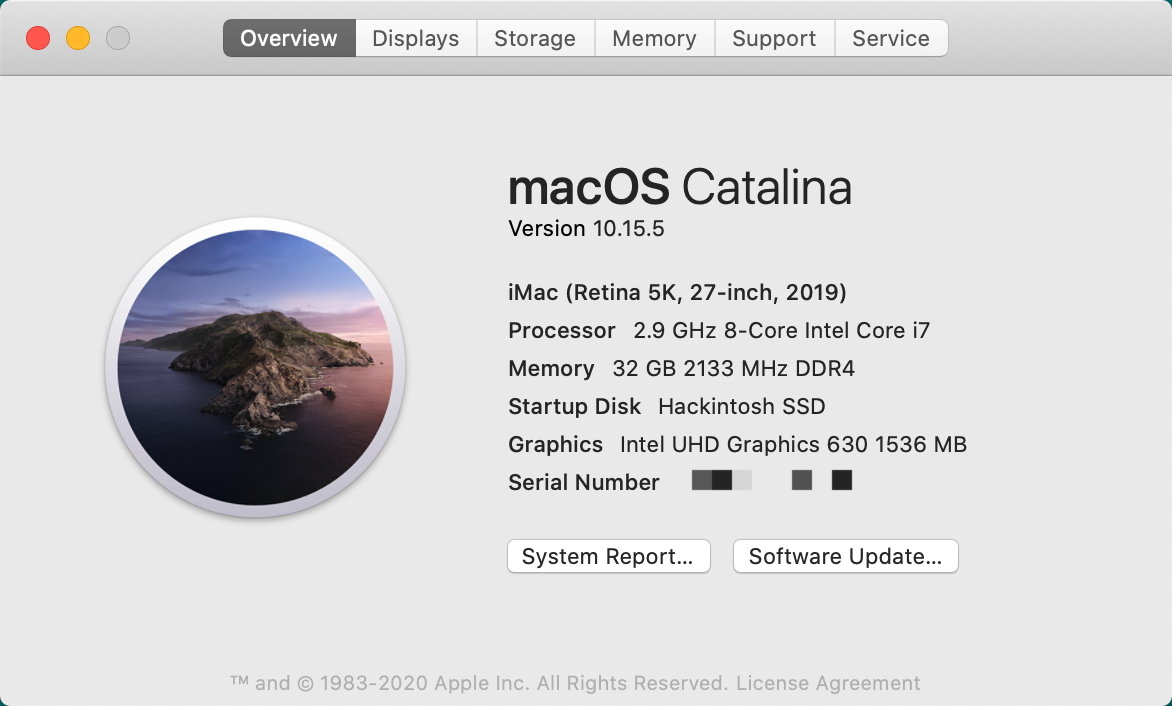
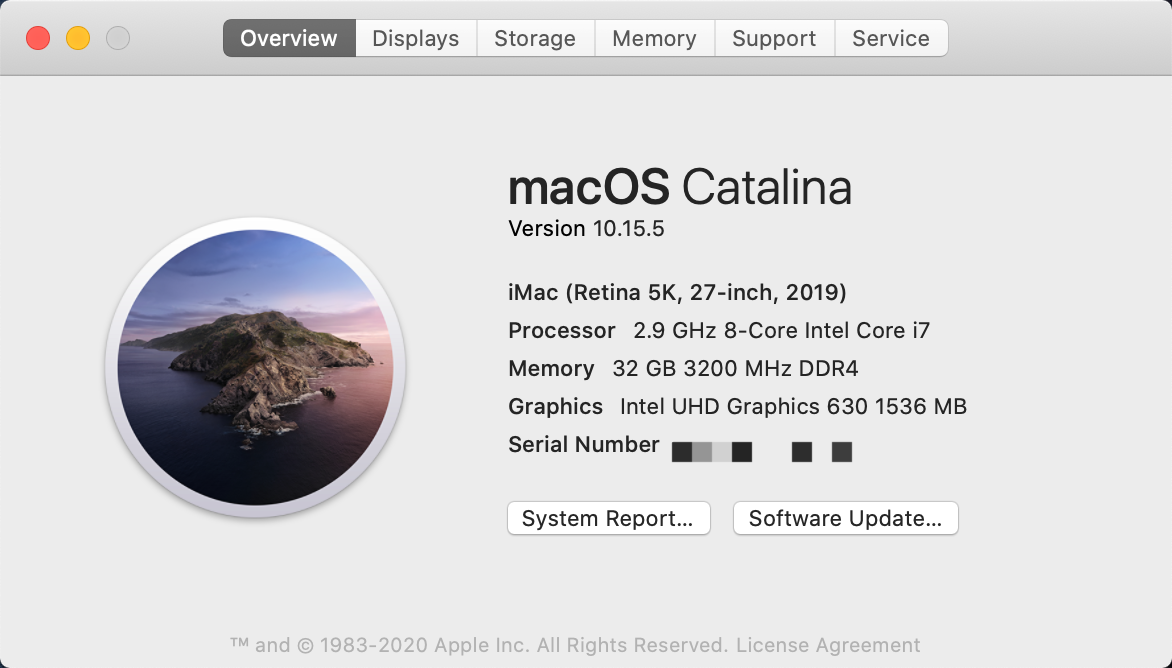
Update README.md

diff --git a/README.md b/README.md
@@ -14,6 +14,7 @@ Highly recommended reading the whole [OpenCore Desktop Guide](https://dortania.g
     * Audio: Realtek ALCS1220A
 * CPU: Intel i7-10700 / 10700k
 * GPU: Intel UHD630 / AMD Radeon VII
+* RAM: CORSAIR VENGEANCE LPX DDR4 3200 32GB(16G×2)
 
 ## Software
 
@@ -271,7 +272,7 @@ The installation guide in the [OpenCore Desktop Guide](https://dortania.github.i
 
 | Item | Score |
 |---|---|
-| CPU - Geekbench | [Single / Multi-Core](https://browser.geekbench.com/v5/cpu/2603659): 1212 / 8023 |
+| CPU - Geekbench | [Single / Multi-Core](https://browser.geekbench.com/v5/cpu/2750529): 1218 / 8909 |
 | Intel UHD630 - Geekbench | [OpenCL](https://browser.geekbench.com/v5/compute/1092240) / [Metal](https://browser.geekbench.com/v5/compute/1120839): 4826 / 4790 |
 | AMD Radeon VII - Geekbench | [OpenCL](https://browser.geekbench.com/v5/compute/1121010) / [Metal](https://browser.geekbench.com/v5/compute/1121020): 75925 / 85089 |
 
